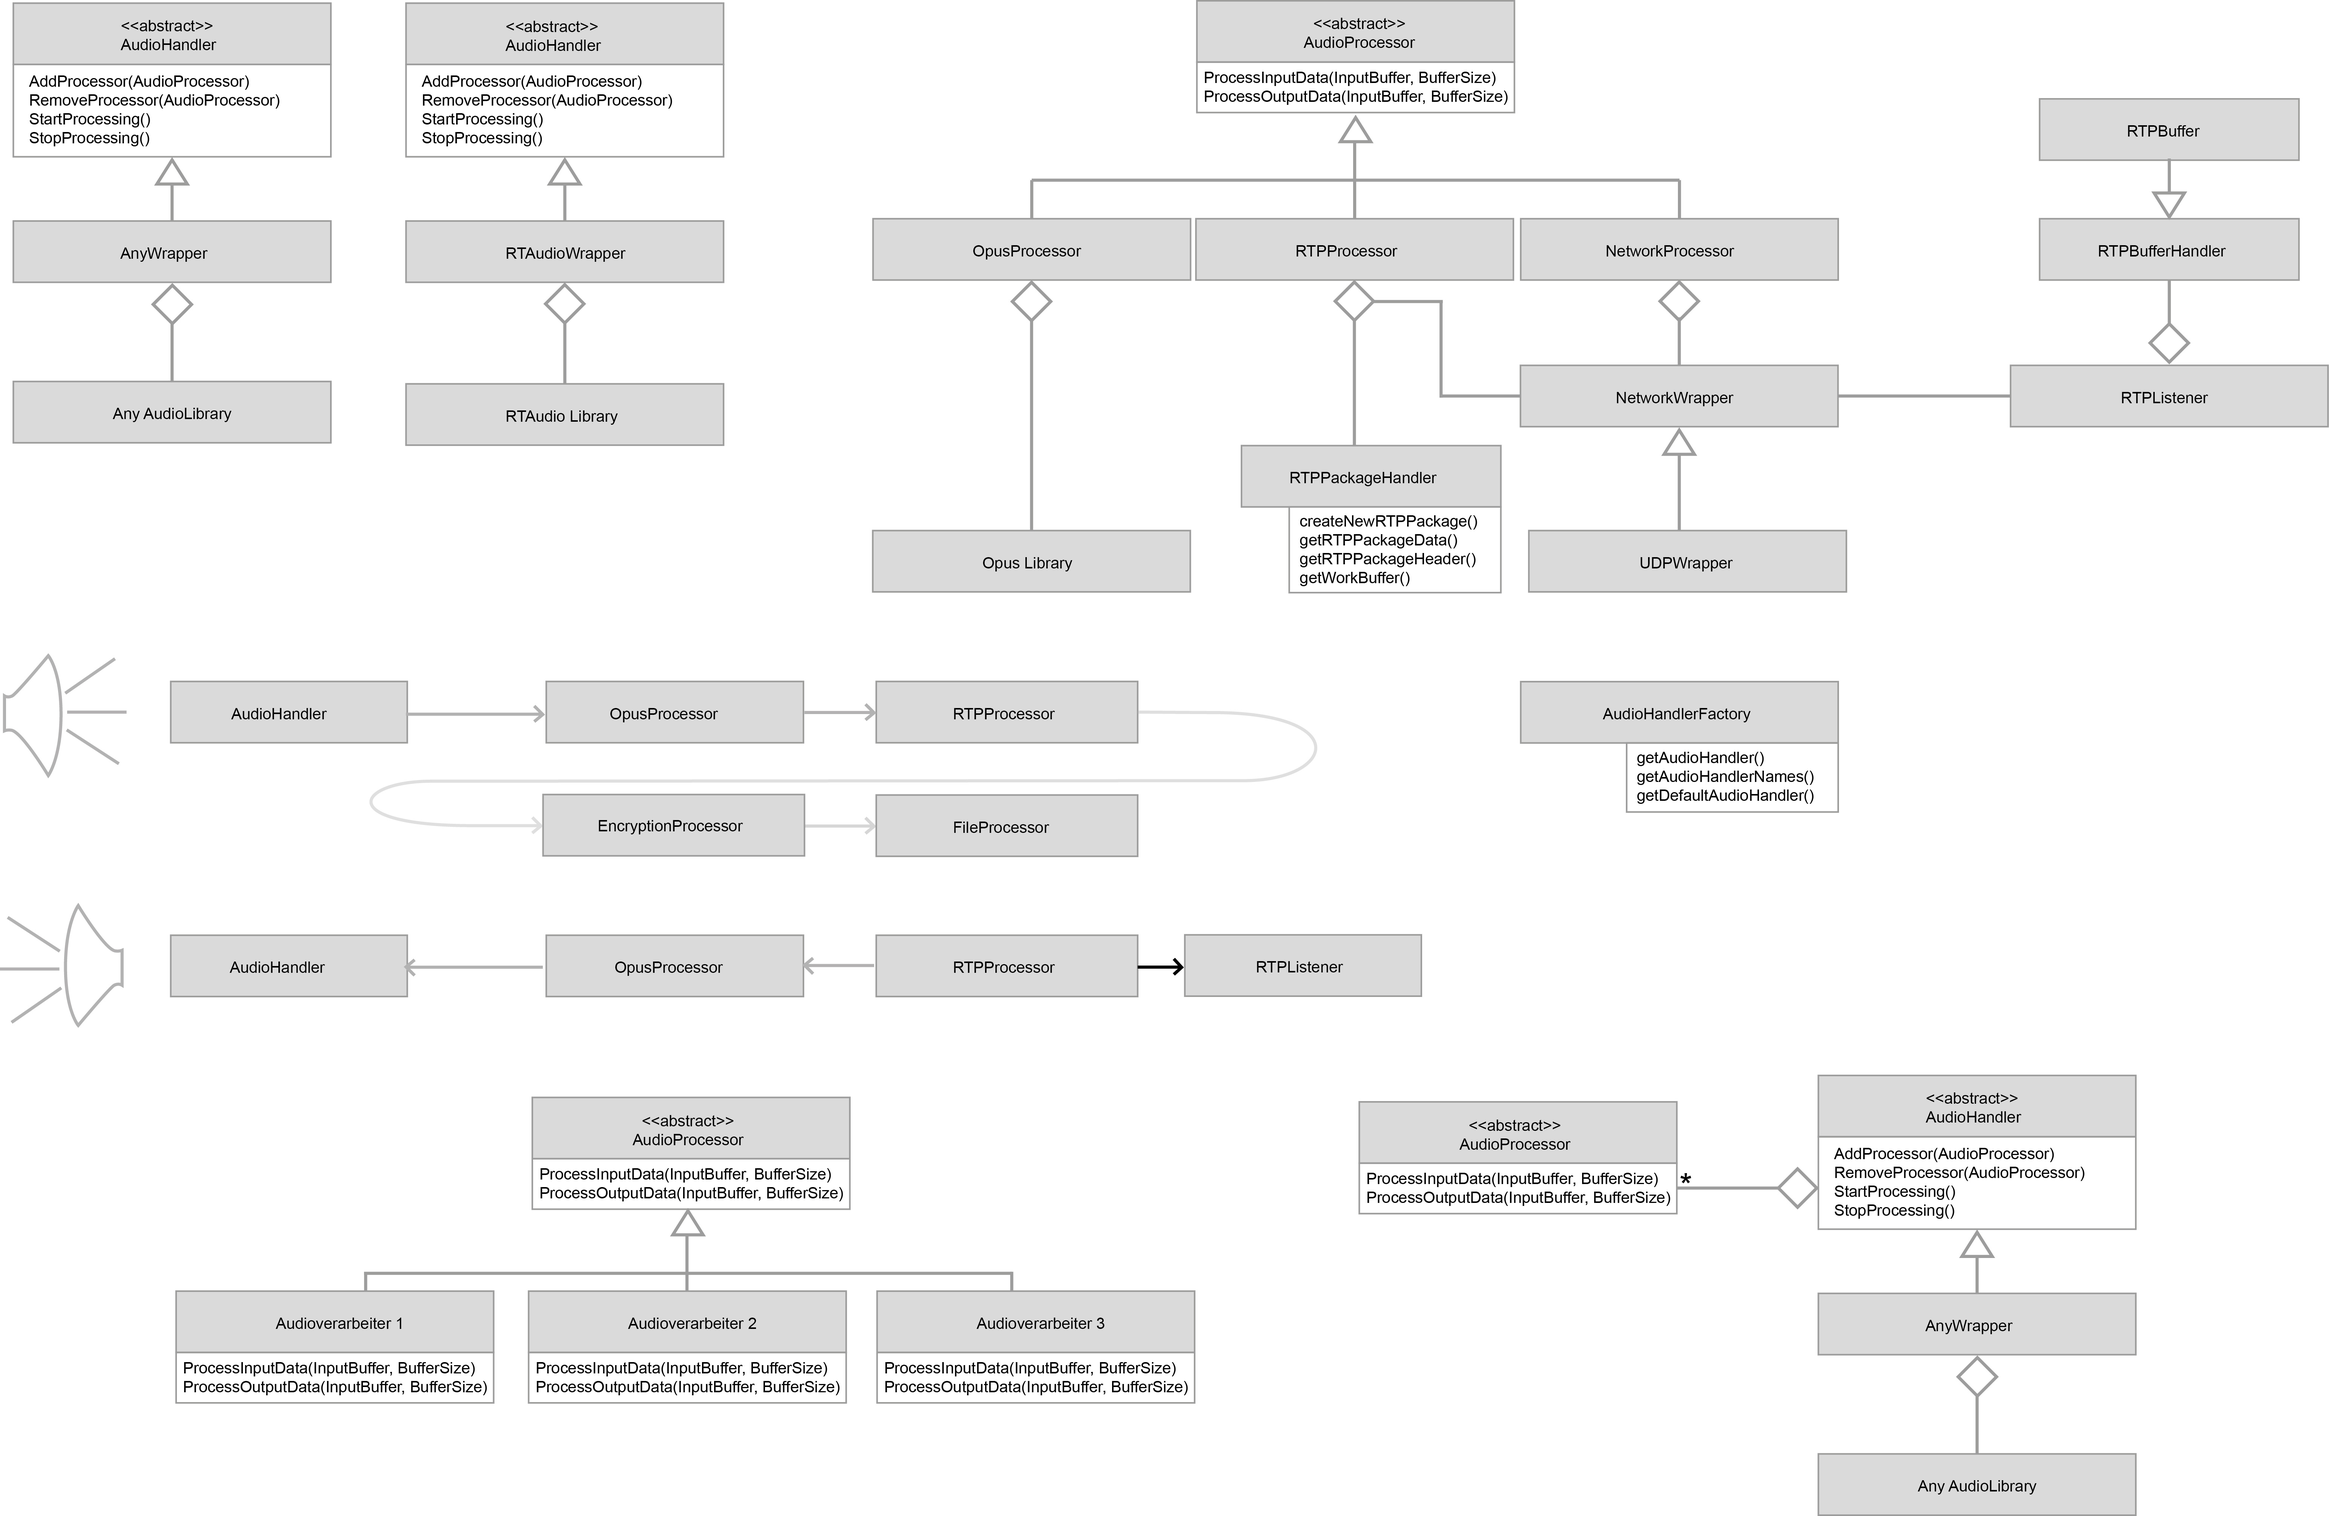
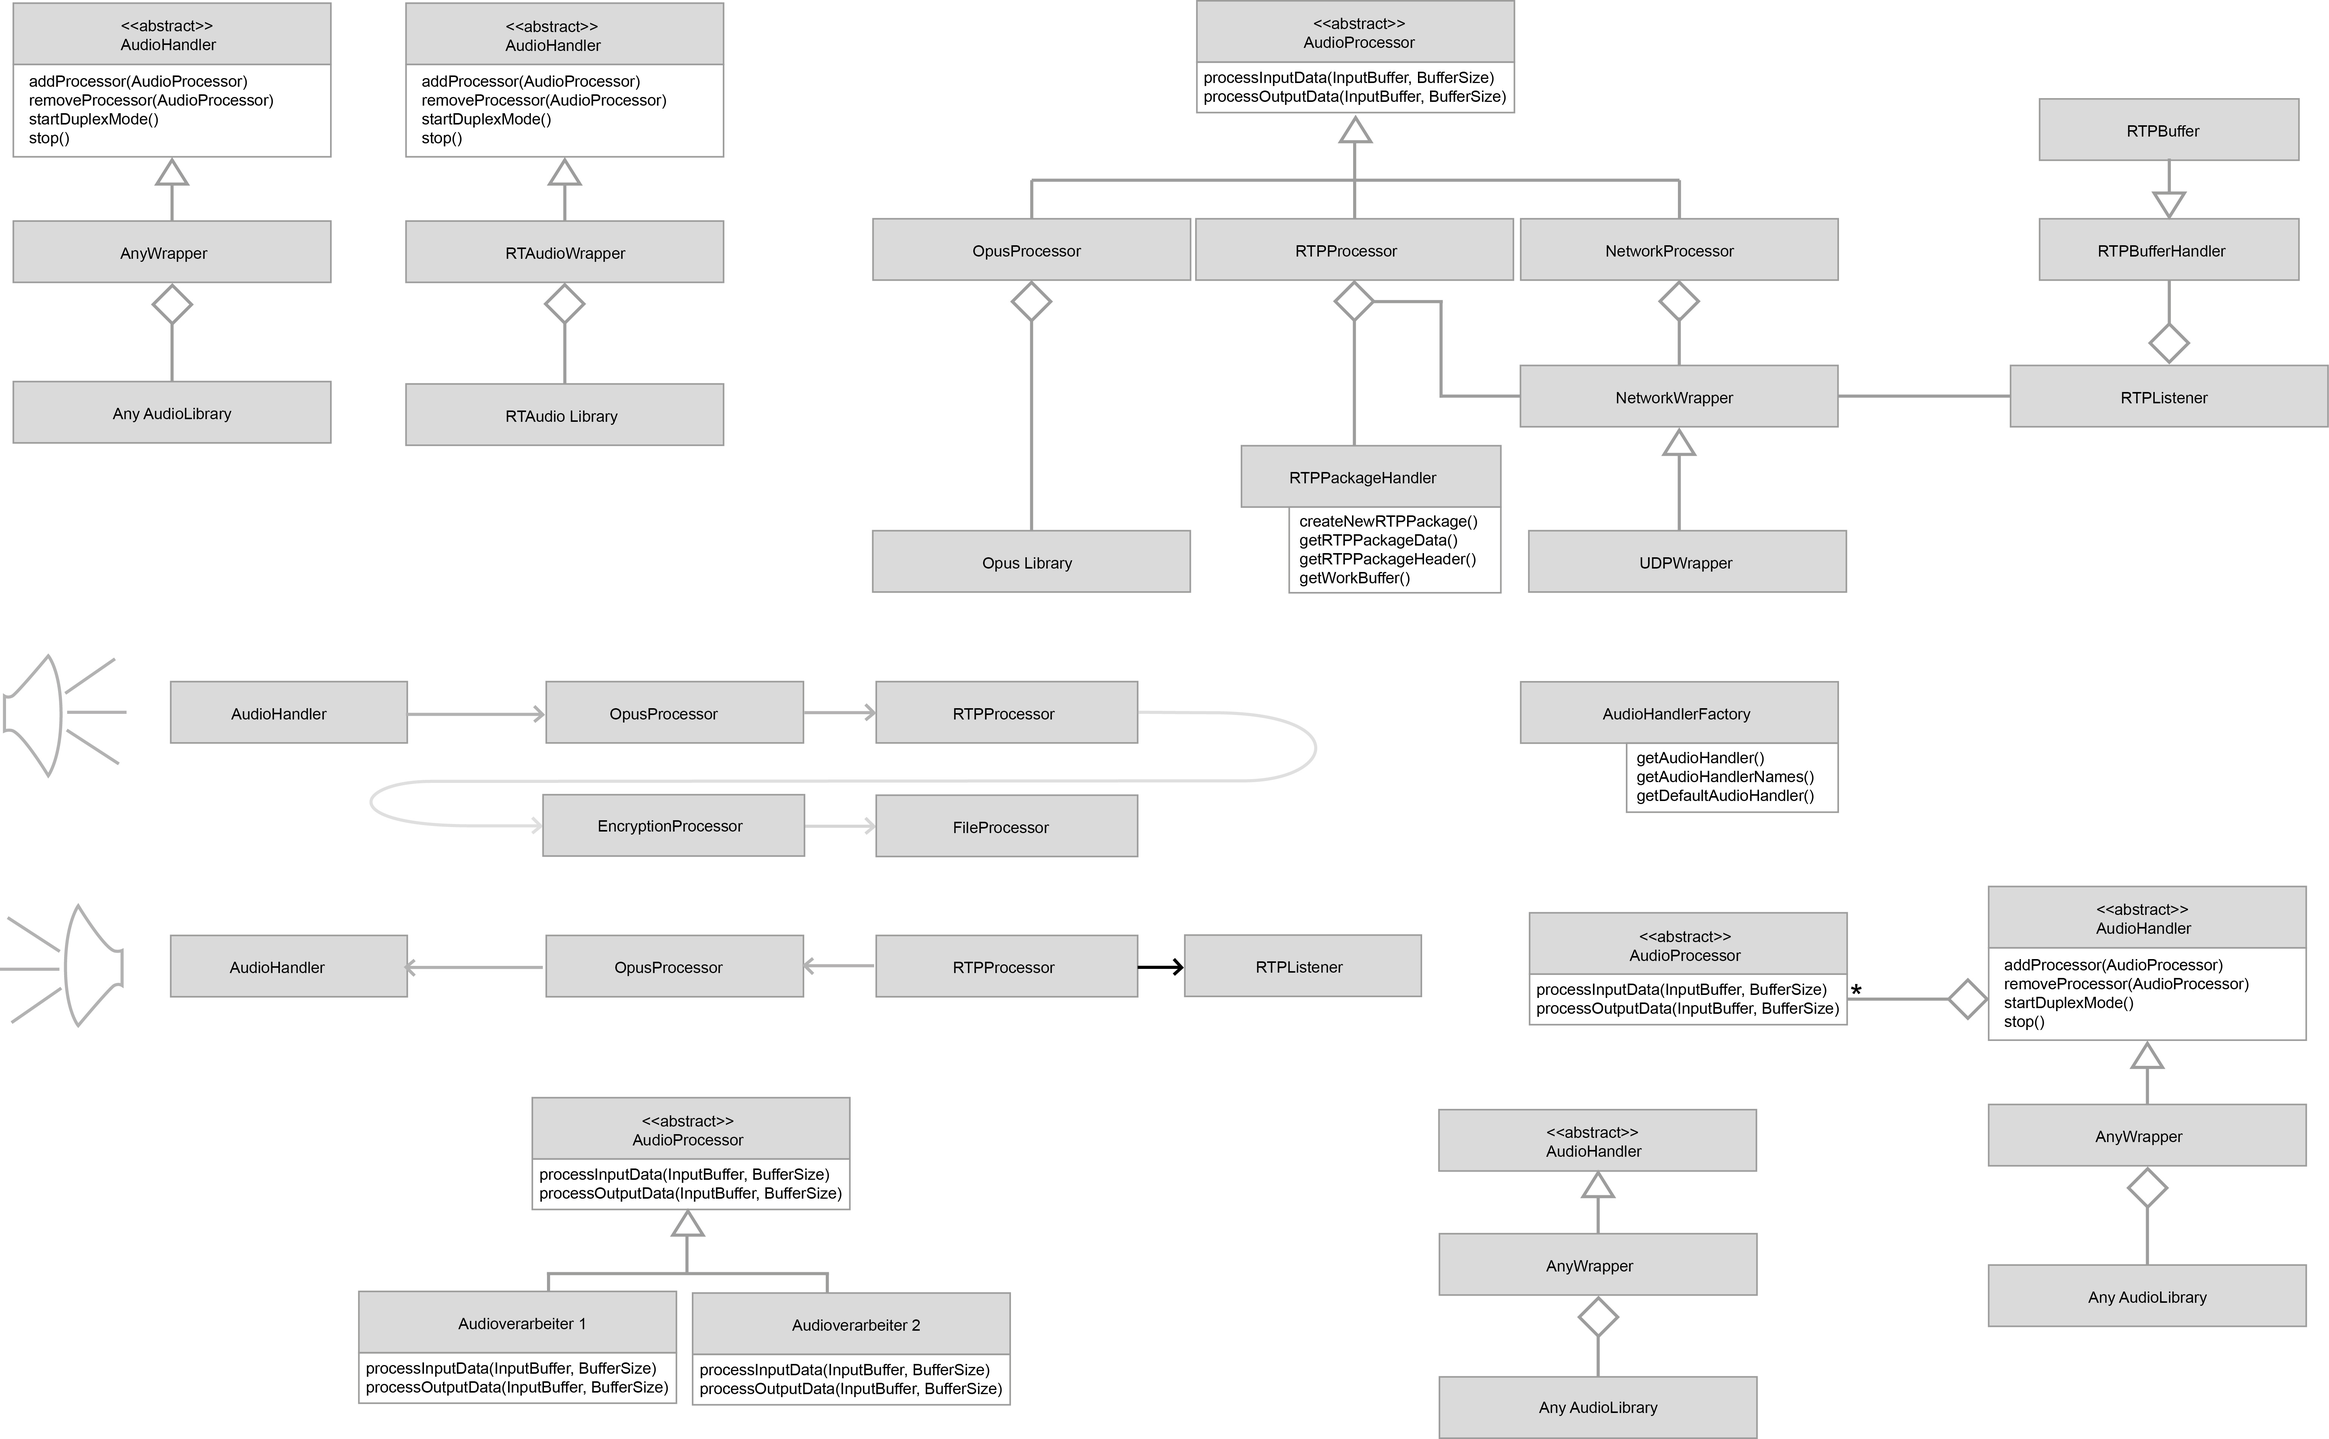
Added graphics and another section

diff --git a/documents/Report/includes/chapter3.tex b/documents/Report/includes/chapter3.tex
@@ -27,24 +27,65 @@ Um das Programm auch als Bibliothek verwenden zu können, wird eine Möglichkeit
 Des Weiteren gibt es die sog. \textbf{passive Konfiguration}, bei der alle Konfigurationen, die in beiden Programmen gleich eingestellt sein müssen, vor dem Start der Kommunikation ausgetauscht werden. Zu den ausgetauschten Einstellungen zählen Abtastrate, Audioformat, Anzahl der Kanäle und die verwendeten Prozessoren (für die Audiocodecs). Somit wird die Gleichheit dieser Einstellungen garantiert und der Konfigurationsaufwand verringert. Mehr zur passiven Konfiguration in Abschnitt \ref{rtcp}.
 %TODO: Ausführlicher!?
 \subsection{Audio-Schnittstelle}
-Für die Audioverarbeitung ist ein allgemeine Schnittstelle zur Audiohardware nötig, siehe Anforderung \ref{FA:SchnittstelleAudiohardware}. Dabei gilt es insbesondere die nicht-funktionalen Anforderungen \ref{NFA:Plattformunabhängigkeit}, \ref{NFA:Performanz} und \ref{NFA:Softwarearchitektur} zu berücksichtigen. Es wird eine abstrakte Klasse mit dem Namen \verb|AudioHandler| erstellt, welche die Verbindung zur Hardware darstellt. Sämtliche Audiodaten laufen über diese Schnittstelle zum Mikrofon oder zu den Lautsprechern. 
+Für die Audioverarbeitung ist ein allgemeine Schnittstelle zur Audiohardware nötig, siehe Anforderung \ref{FA:SchnittstelleAudiohardware}. Dabei gilt es insbesondere die nicht-funktionalen Anforderungen \ref{NFA:Plattformunabhängigkeit}, \ref{NFA:Performanz} und \ref{NFA:Softwarearchitektur} zu berücksichtigen. Es wird eine abstrakte Klasse mit dem Namen \texttt{AudioHandler} erstellt, welche die Verbindung zur Hardware darstellt. Sämtliche Audiodaten laufen über diese Schnittstelle zum Mikrofon oder zu den Lautsprechern. 
 
 \subsubsection{Verarbeitungsmethoden}
-Die Klasse bietet drei virtuelle Methoden, welche eine automatische Verarbeitung starten. Die Methode \verb|startRecordingMode()| startet die Verarbeitung von Audioinputdaten (Mikrofon), \verb|startPlaybackMode()| startet die Verarbeitung von Audiooutputdaten (Lautsprecher) und \verb|startDuplexMode()| ist die gleichzeitige Verarbeitung von Audioinput- und Audioutputdaten. Letztere stellt den Standardfall für die Audiokommunikation dar. Wie diese Methoden im Detail aussehen, wird in Unterklassen von \verb|AudioHandler| implementiert. Für die Hardwareansteuerung ist sinnvoll bereits existierde Lösungen zu verwenden. In diesem Fall kann man Unterklassen von \verb|AudioHandler| auch als Wrapper-Klasse ansehen.
+Die Klasse bietet drei virtuelle Methoden, welche eine automatische Verarbeitung starten. Die Methode \texttt{startRecordingMode()} startet die Verarbeitung von Audioinputdaten (Mikrofon), \texttt{startPlaybackMode()} startet die Verarbeitung von Audiooutputdaten (Lautsprecher) und \texttt{startDuplexMode()} ist die gleichzeitige Verarbeitung von Audioinput- und Audioutputdaten. Letztere stellt den Standardfall für die Audiokommunikation dar. Wie diese Methoden im Detail aussehen, wird in Unterklassen von \texttt{AudioHandler} implementiert. Für die Hardwareansteuerung ist sinnvoll bereits existierde Lösungen zu verwenden. In diesem Fall kann man Unterklassen von \texttt{AudioHandler} auch als Wrapper-Klasse ansehen.
 
 \subsubsection{Konfiguration}
-Vor der Verarbeitung muss die Hardware konfiguriert werden. Hierfür wurde das Struct \verb|AudioConfiguration| erstellt. In diesem lassen sich das Mikrofon und die Lautsprecher bestimmen, die Anzahl der Kanäle (Mono - Stereo), die Sample Rate und die Größe des internes Buffers. Der interne Buffer kann vorerst vernachlässigt werden. Im Kapitel von \ref{sec:RTAudio} TODO-Kreuzreferenz wird dieser näher erläutert. Für die Übergabe der Einstellungen steht in der Klasse \verb|AudioHandler| die Methode \verb|setConfiguration()| zur Verfügung. Falls keine Konfiguration übergeben wird, so wird automatisch die virtuelle Methode \verb|setDefaultAudioConfig()| aufgerufen. Diese muss ebenfalls von der Unterklasse implementiert werden. Die Methode stellt eine Standardkonfiguration zur Verfügung, jedoch ist zu beachten, dass diese Konfiguration eventuell fehlerhaft und nicht auf allen Systemen lauffähig ist.
+Vor der Verarbeitung muss die Hardware konfiguriert werden. Hierfür wurde das Struct \texttt{AudioConfiguration} erstellt. In diesem lassen sich das Mikrofon und die Lautsprecher bestimmen, die Anzahl der Kanäle (Mono - Stereo), die Sample Rate und die Größe des internes Buffers. Der interne Buffer kann vorerst vernachlässigt werden. Im Kapitel von \ref{sec:RTAudio} TODO-Kreuzreferenz wird dieser näher erläutert. Für die Übergabe der Einstellungen steht in der Klasse \texttt{AudioHandler} die Methode \texttt{setConfiguration()} zur Verfügung. Falls keine Konfiguration übergeben wird, so wird automatisch die virtuelle Methode \texttt{setDefaultAudioConfig()} aufgerufen. Diese muss ebenfalls von der Unterklasse implementiert werden. Die Methode stellt eine Standardkonfiguration zur Verfügung, jedoch ist zu beachten, dass diese Konfiguration eventuell fehlerhaft und nicht auf allen Systemen lauffähig ist.
 
 \subsubsection{Steuerung der Verarbeitung}
-Falls die Verarbeitung läuft kann diese durch Methoden gesteuert werden. Die Methode \verb|suspend()| pausiert die aktuelle Verarbeitung und \verb|resume()| setzt sie weiter fort. Die Methode \verb|stop()| stoppt die Verarbeitung komplett und kann nicht durch \verb|resume()| fortgesetzt werden. \verb|reset()| stoppt die Verarbeitung und setzt die übergebene Audiokonfiguration wieder zurück.
+Falls die Verarbeitung läuft kann diese durch Methoden gesteuert werden. Die Methode \texttt{suspend()} pausiert die aktuelle Verarbeitung und \texttt{resume()} setzt sie weiter fort. Die Methode \texttt{stop()} stoppt die Verarbeitung komplett und kann nicht durch \texttt{resume()} fortgesetzt werden. \texttt{reset()} stoppt die Verarbeitung und setzt die übergebene Audiokonfiguration wieder zurück.
 
 \subsubsection{Prepare-Methode}
-Die virtuelle Methode \verb|prepare| nimmt eine Sonderrolle ein. Grundsätzlich kann Sie als optional betrachtet werden, jedoch ist sie für bestimmte Einsatzzwecke sinnvoll. Sie sollte aufgerufen nachdem eine Audiokonfiguration übergeben wurde und bevor die Verarbeitung gestartet ist. Dies kann sinnvoll sein um z.B. die ausgewählte Hardware im Hinblick auf bestimmte Einstellungsmöglichkeiten und deren Kompatiblität mit anderen Komponenten zu überprüfen. Falls eine Inkompatiblität festgestellt wird, kann der Start der Verarbeitung abgebrochen wurden.
+Die virtuelle Methode \texttt{prepare} nimmt eine Sonderrolle ein. Grundsätzlich kann Sie als optional betrachtet werden, jedoch ist sie für bestimmte Einsatzzwecke sinnvoll. Sie sollte aufgerufen nachdem eine Audiokonfiguration übergeben wurde und bevor die Verarbeitung gestartet ist. Dies kann sinnvoll sein um z.B. die ausgewählte Hardware im Hinblick auf bestimmte Einstellungsmöglichkeiten und deren Kompatiblität mit anderen Komponenten zu überprüfen. Falls eine Inkompatiblität festgestellt wird, kann der Start der Verarbeitung abgebrochen wurden.
 
 \subsubsection{Überblick}
-Durch die abstrakte Klasse wird gewährleistet, dass die Klasse austauschbar und erweiterbar ist. Viele Implementierungsdetails werden in die Unterklasse ausgelagert. Die Audiohardware lässt sich durch das Struct \verb|AudioConfiguration| konfigurieren. Jedoch besteht diese Klasse nicht nur aus der Schnittstelle zur Hardware, sondern ist der zentraler Verarbeitungspunkt, daher einer der wichtigsten Komponenten des Frameworks. Für die Verarbeitung von Audiodaten wurde eine spezielle Schnittstelle, die Verarbeitungskette, in diese Klasse integriert. Im folgenden Kapitel wird diese näher erläutert.
+Abbildung \ref{Fig:AudioHandlerAnySimple} zeigt eine vereinfachte Darstellung des \texttt{AudioHandlers}. Durch die abstrakte Klasse wird gewährleistet, dass die Klasse austauschbar und erweiterbar ist. Viele Implementierungsdetails werden in die Unterklasse ausgelagert. Durch das Verwenden externer Libraries kann die Unterklasse auch als Wrapper-Klasse angesehen werden. Die Audiohardware lässt sich durch das Struct \texttt{Audio"-Configuration} konfigurieren. Jedoch besteht diese Klasse nicht nur aus der Schnittstelle zur Hardware, sondern ist der zentraler Verarbeitungspunkt, daher einer der wichtigsten Komponenten des Frameworks. Für die Verarbeitung von Audiodaten wurde eine spezielle Schnittstelle, die Verarbeitungskette, integriert. Im folgenden Kapitel wird diese näher erläutert.
+\newline
+\begin{figure}[htp]
+\centering
+\includegraphics[width=.45\textwidth]{../img/AudioHandlerAnySimple}
+\caption{UML-Klassendiagramm des AudioHandlers}
+\label{Fig:AudioHandlerAnySimple}
+\end{figure}
+
 \subsection{Verarbeitungskette}
 \label{processingChain}
+
+Die Klasse \texttt{AudioHandler} bietet eine Schnittstelle zur Hardware an. Ein Teil ihrer Implementierung ist die Verarbeitungskette. Durch ihr können andere Klassen mit den Audiodaten arbeiten, ohne die Implementierungsdetails des \texttt{AudioHandlers} kennen zu müssen. Im folgenden Abschnitt wird erklärt wie diese funktioniert.
+
+\subsubsection{AudioProcessor}
+Wenn eine Klasse mit den Audiodaten arbeiten will, so muss sie das Interface \texttt{AudioProcessor} implementieren, siehe Abbildung \ref{Fig:AudioProcessorExample}. Hierfür muss sie die Methoden \texttt{process"-Input"-Data()} und \texttt{process"-Output"-Data()} implementieren. \texttt{process"-Input"-Data()} wird immer aufgerufen, wenn Audiodaten vom Mikrofon für die Verarbeitung im internen Buffer vorhanden sind. Wenn der zweite interne Buffer zum Abspielen von Audiodaten leer ist, wird die Methode \texttt{process"-Output"-Data()} aufgerufen. Dort können Daten auf den Buffer zum Abspielen hinterlegt werden. Beide Funktionen haben als Parameter den jeweiligen Buffer und die Größe des Buffers. Der Rückgabewert der Funktion ist die neue oder alte Größe des Buffers. Der Rückgabewert ist nur auf Hinblick des Dekodieren und Kodieren relevant.
+\newline
+\begin{figure}[htp]
+\centering
+\includegraphics[width=1\textwidth]{../img/AudioProcessorExample}
+\caption{Beispielhafte Verwendung der AudioProcessor-Klasse}
+\label{Fig:AudioProcessorExample}
+\end{figure}
+
+\texttt{configure()} und \texttt{cleanUp()} sind weitere Methoden des AudioProcessors. Erstere wird einmalig, kurz bevor die Verarbeitung startet, aufgerufen. Als Parameter muss die festgelegte Audiokonfiguration übergeben werden. Die Funktion hat einen boolschen Rückgabewert der angibt, ob der AudioProcessor bereit für die Audioverarbeitung ist. Im Fehlerfall startet die Verarbeitung nicht. Dies kann wichtig sein, wenn z.B. ein AudioProcessor eine gewisse Audiokonfiguration voraussetzt. \texttt{cleanUp()} dient dazu, den \texttt{AudioProcessor} ordentlich aufzuräumen, wenn dieser nicht mehr benötigt wird.
+
+\subsubsection{Verarbeitungskette}
+Das Implementieren der Klasse \texttt{AudioProcessor} reicht nicht aus, um an der Audioverarbeitung aktiv teilzunehmen. Abbildung \ref{Fig:AudioHandlerAudioProcessor} zeigt die Beziehung zwischen \texttt{Audio"-Handler} und \texttt{Audio"-Processor}. Die Klasse muss sich beim \texttt{AudioHandler} mit der Methode \texttt{addProcessor()} anmelden. Diese nimmt als Parameter einen \texttt{AudioProcessor} entgegen. Audioprozessoren lassen sich über ihren Namen eindeutig identifizieren. Der Prozessor wird, falls er schon nicht vorhanden ist, in einer Liste vom Typ \texttt{AudioProcessor} eingefügt. Falls nun Audioinputdaten anliegen, so werden von allen Audioprozessoren, die sich in der Liste befinden, die \texttt{process"-Input"-Data()}-Methoden aufgerufen. Die Aufrufreihenfolge ist abhängig von der Anmeldereihenfolge. Für Audiooutput-Daten geschieht das analog, jedoch ist hier die Aufrufreihenfolge entgegengesetzt, da die Verarbeitungskette nicht kommutativ ist. Daraus folgt, dass die \texttt{process"-Output"-Data()}-Methoden genau in der umgekehrten Reihenfolge aufgerufen werden müssen, um wieder an die ursprünglichen Audiodaten zugelangen. Es lassen sich beliebige viele Prozessoren beim \texttt{AudioHandler} anmelden. Jedoch ist zu beachten, dass die Performanz sinkt je mehr Prozessoren angemeldet sind. Vom Aufbau ähnelt die Verarbeitungskette, dem Observer-Pattern, jedoch mit dem entscheidenden Unterschied, dass die Einfügereihenfolge eine wesentliche Rolle für die Verarbeitung spielt. 
+\newline
+\begin{figure}[!htp]
+\centering
+\includegraphics[width=1\textwidth]{../img/AudioHandlerAudioProcessor}
+\caption{UML-Klassendiagramm AudioHandler und AudioProcessors}
+\label{Fig:AudioHandlerAudioProcessor}
+\end{figure}
+
+\FloatBarrier
+
+
+
+
+
+
+
 \subsection{Austauschbarkeit und Instantiierung}
 \subsection{RTP-Protokoll}
 \label{rtp}

diff --git a/documents/Report/Report.tex b/documents/Report/Report.tex
@@ -1,4 +1,4 @@
-\documentclass[11pt,a4paper]{report} 
+\documentclass[11pt,a4paper]{report}
 \usepackage[ngerman]{babel} % deutsch und deutsche Rechtschreibung
 \usepackage[utf8]{inputenc} % Unicode Text 
 \usepackage[T1]{fontenc} % Umlaute und deutsches Trennen
@@ -75,10 +75,14 @@
 % damit wir nicht so viel tippen müssen, nur für Demo 
 %\usepackage{blindtext} 
 
-% Float-Objekte sollen die Section nicht verlassen in der sie eingefügt worden sind
+% Float-Objekte sollen die (Sub)Section nicht verlassen in der sie eingefügt worden sind
 \usepackage[section]{placeins}
 
+% Für den Befehl \FloatBarrier - Damit kann man Grenzen für Float-Objekte erstellen, die sie nicht verlassen dürfen.
+\usepackage{placeins}
+
 \begin{document}
+
 
 \begin{titlepage}
   \begin{center}
